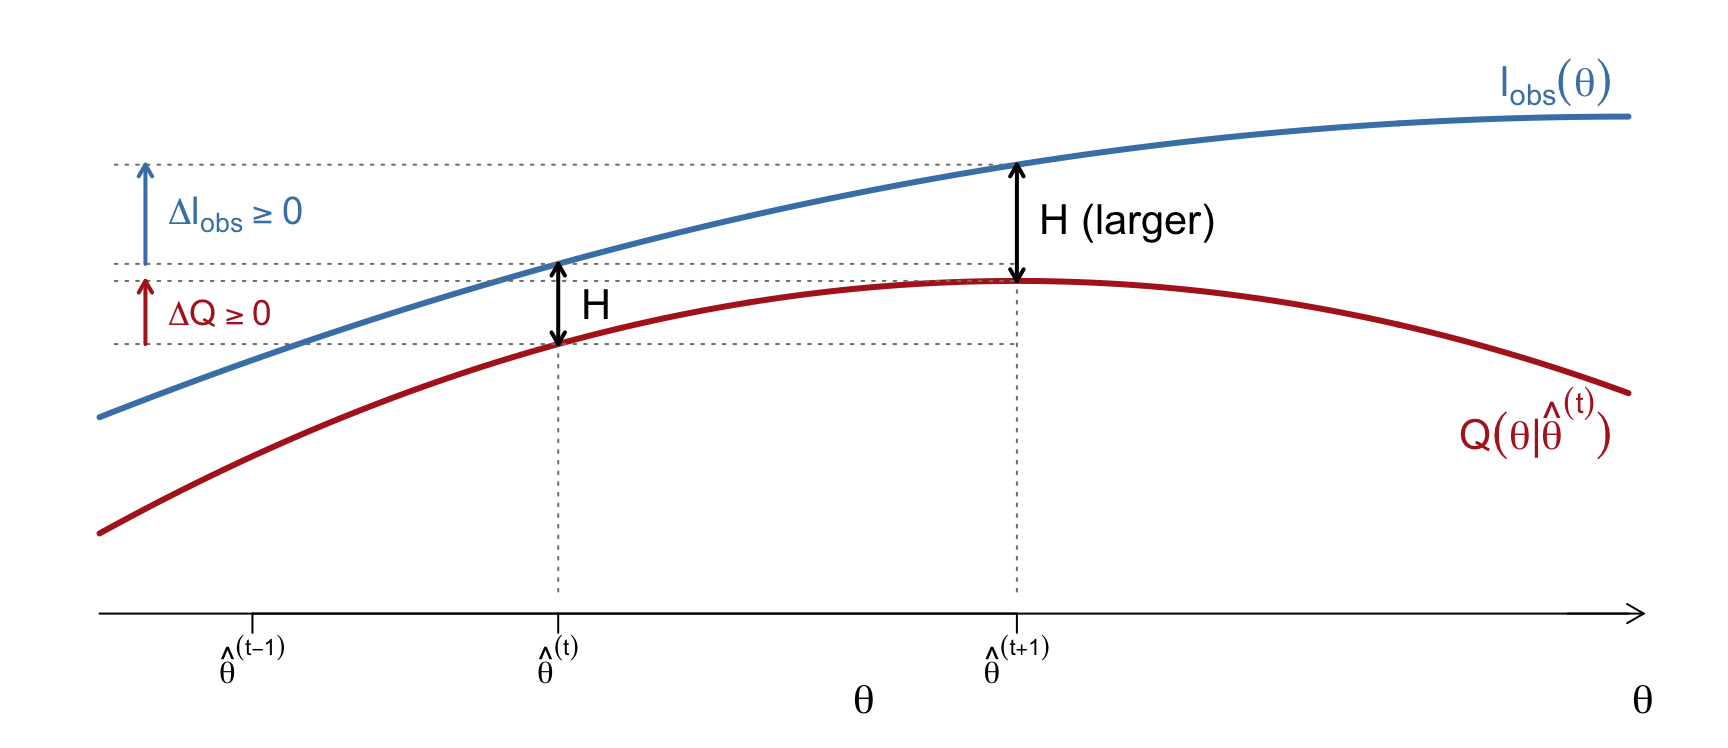
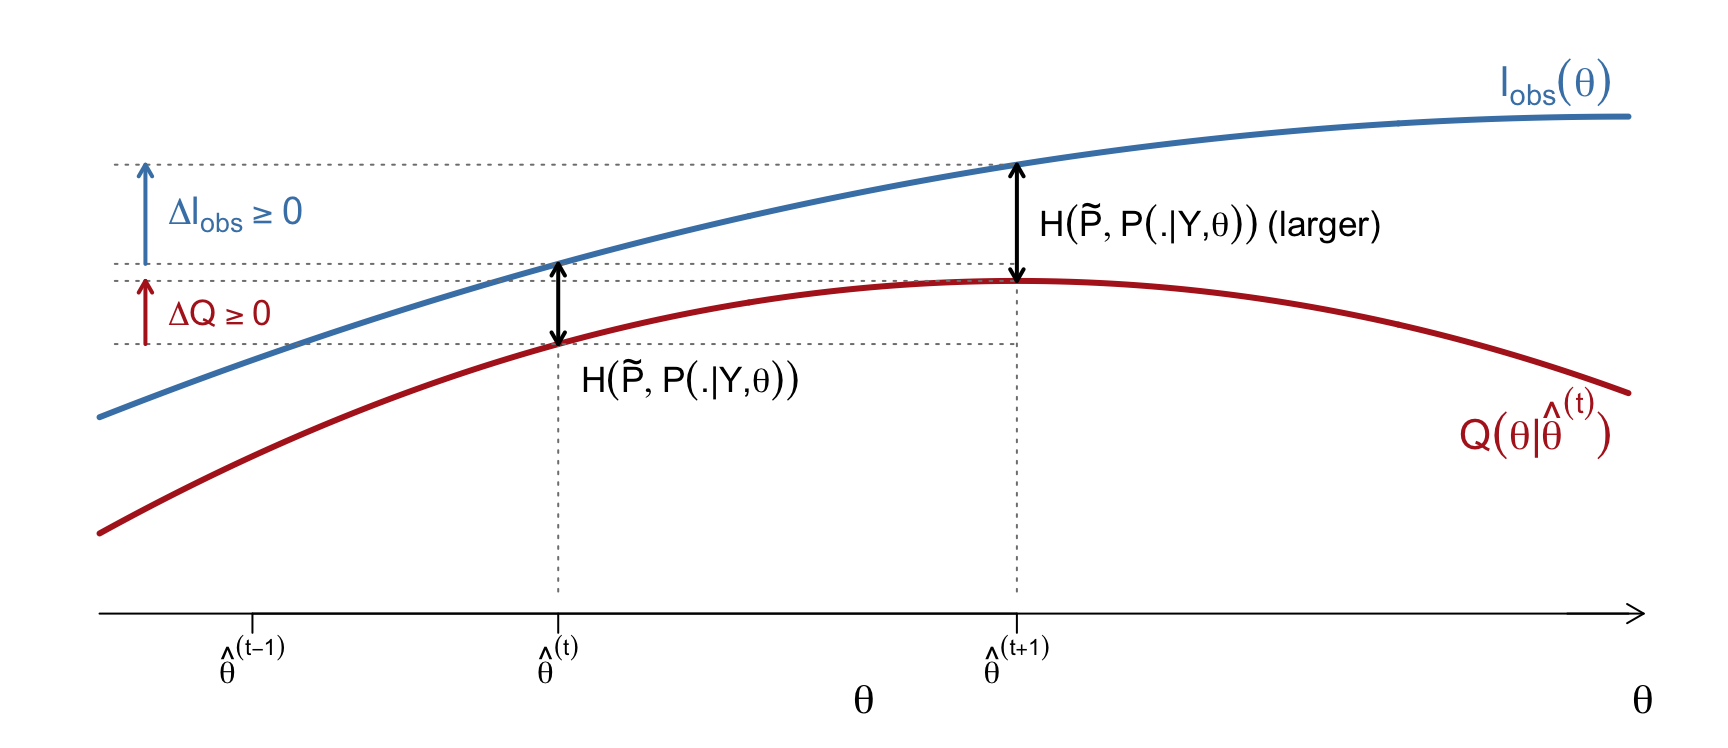
EM ascending-property figure: label H explicitly as H(P~, P(.|Y,theta)) in slides and book
Claude-Session: https://claude.ai/code/session_01Wh2Ga1BaKajzeVmhsLmQ8Y

Changed region(s): [[0.5938, 0.2767, 0.8125, 0.3382], [0.3125, 0.4612, 0.4688, 0.5227], [0.3438, 0.3997, 0.375, 0.4305]]

diff --git a/compstat_slides/Lec_06_EM.html b/compstat_slides/Lec_06_EM.html
@@ -6,8 +6,8 @@
 <script src="Lec_06_EM_files/libs/quarto-html/tippy.umd.min.js"></script>
 <link href="Lec_06_EM_files/libs/quarto-html/tippy.css" rel="stylesheet">
 <link href="Lec_06_EM_files/libs/quarto-html/light-border.css" rel="stylesheet">
-<link href="Lec_06_EM_files/libs/quarto-html/quarto-syntax-highlighting-64a204ab8560d761af7679ceaba22944.css" rel="stylesheet" id="quarto-text-highlighting-styles"><meta charset="utf-8">
-  <meta name="generator" content="quarto-1.10.18">
+<link href="Lec_06_EM_files/libs/quarto-html/quarto-syntax-highlighting-7f8f88aac4f3542376d5c11b86a4c14d.css" rel="stylesheet" id="quarto-text-highlighting-styles"><meta charset="utf-8">
+  <meta name="generator" content="quarto-1.9.37">
 
   <meta name="author" content="Longhai Li">
   <meta name="dcterms.date" content="2026-10-29">
@@ -21,13 +21,10 @@
     /* Default styles provided by pandoc.
     ** See https://pandoc.org/MANUAL.html#variables-for-html for config info.
     */
+    code{white-space: pre-wrap;}
     span.smallcaps{font-variant: small-caps;}
-    div.columns{display: flex; gap: 1.5em;}
-    div.column{flex: auto;}
-    @media screen {
-    div.columns{gap: min(4vw, 1.5em);}
-    div.column{overflow-x: auto;}
-    }
+    div.columns{display: flex; gap: min(4vw, 1.5em);}
+    div.column{flex: auto; overflow-x: auto;}
     div.hanging-indent{margin-left: 1.5em; text-indent: -1.5em;}
     ul.task-list{list-style: none;}
     ul.task-list li input[type="checkbox"] {
@@ -159,7 +156,7 @@
 <div class="quarto-title-authors">
 <div class="quarto-title-author">
 <div class="quarto-title-author-name">
-Longhai Li
+Longhai Li 
 </div>
 </div>
 </div>

diff --git a/compstat_book/chapters/unit06_em.html b/compstat_book/chapters/unit06_em.html
@@ -7,7 +7,7 @@
 <meta name="viewport" content="width=device-width, initial-scale=1.0, user-scalable=yes">
 
 <meta name="author" content="Longhai Li">
-<meta name="dcterms.date" content="2026-10-28">
+<meta name="dcterms.date" content="2026-10-29">
 
 <title>EM-chapter – Elements of Statistical Computation</title>
 <style>
@@ -377,7 +377,7 @@ window.Quarto = {
     <div>
     <div class="quarto-title-meta-heading">Published</div>
     <div class="quarto-title-meta-contents">
-      <p class="date">October 28, 2026</p>
+      <p class="date">October 29, 2026</p>
     </div>
   </div>
   
